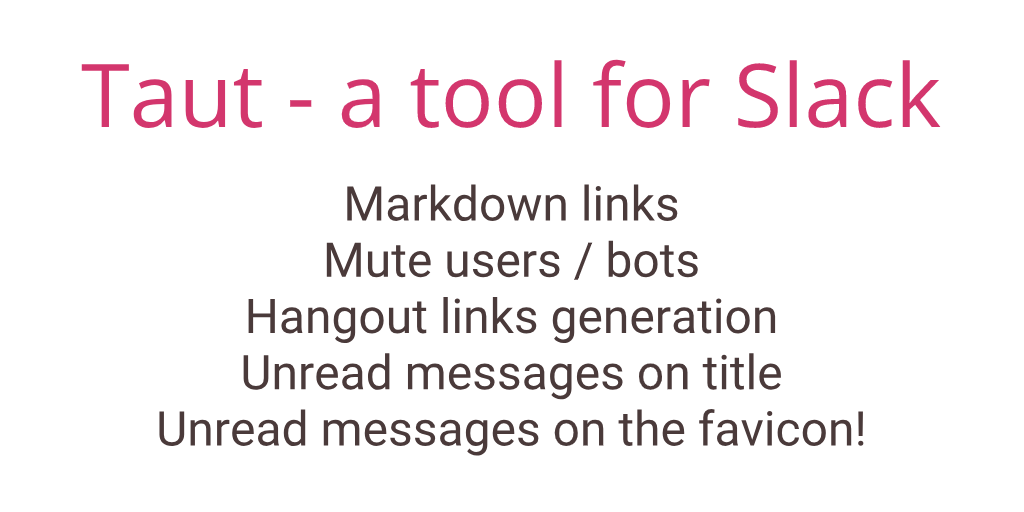
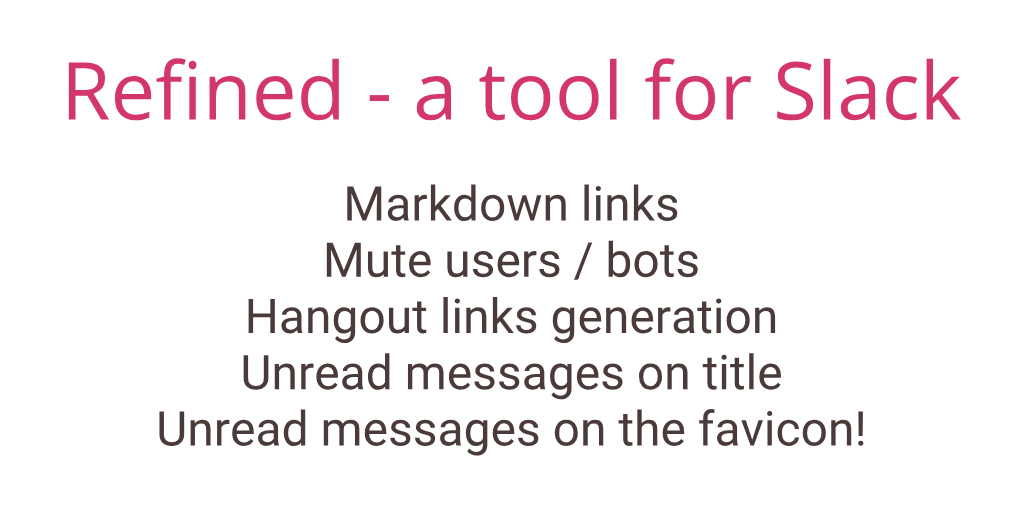
Rename everything!

Changed region(s): [[0.4062, 0.0938, 0.9375, 0.25], [0.0625, 0.0938, 0.375, 0.25]]

diff --git a/index.html b/index.html
@@ -1,19 +1,19 @@
 ---
 layout: default
-title: Taut - a tool for Slack
-description: Taut is a small extension to personalize Slack on your browser.
+title: Refined - a tool for Slack
+description: Refined is a small extension to personalize Slack on your browser.
 ---
 
 <p class="stacks-copy">Here's a quick list of all the features. Follow the links for details on what they do :) Originally, I recorded a video showing the extension, but keeping it updated was really challenging.</p>
 
 <section class="stacks-section">
     {% header h2 | Mute users %}
-    <p class="stacks-copy">Do you have some noisy bots you'd like to mute? <a href="/mute-users">Taut lets you do that</a>.</p>
+    <p class="stacks-copy">Do you have some noisy bots you'd like to mute? <a href="/mute-users">Refined lets you do that</a>.</p>
 </section>
 
 <section class="stacks-section">
     {% header h2 | Use markdown links %}
-    <p class="stacks-copy">You can write things like <span class="ff-mono">[Check this amazing extension](https://taut.rocks)</span> and that's going to appear as <a href="https://taut.rocks">Check this amazing extension</a> for you and for everybody on the channel (even if they are not using Taut).
+    <p class="stacks-copy">You can write things like <span class="ff-mono">[Check this amazing extension](https://refined.chat)</span> and that's going to appear as <a href="https://refined.chat">Check this amazing extension</a> for you and for everybody on the channel (even if they are not using Refined).
     Want to see an example? <a href="/markdown-links">Check it out!</a></p>
 </section>
 
@@ -24,7 +24,7 @@ description: Taut is a small extension to personalize Slack on your browser.
 
 <section class="stacks-section">
     {% header h2 | Unread count on the title %}
-    <p class="stacks-copy">Sometimes (well, all the time) I'm on a tab that is not Slack. When that happens all I see is an asterisk on the title when there are some unread messages. Taut can <a href="/unread-count">add a count of unread messages on the page title</a>.</p>
+    <p class="stacks-copy">Sometimes (well, all the time) I'm on a tab that is not Slack. When that happens all I see is an asterisk on the title when there are some unread messages. Refined can <a href="/unread-count">add a count of unread messages on the page title</a>.</p>
 </section>
 
 <section class="stacks-section">
@@ -39,40 +39,40 @@ description: Taut is a small extension to personalize Slack on your browser.
 
 <section class="stacks-section">
     {% header h2 | Avoid opening the app when clicking on a link a Slack %}
-    <p class="stacks-copy">When you click on a link to a Slack message, by default it opens the Slack app (or shows a prompt). Taut lets you remove that... so that whenever you click on a link, it's always opened on the Slack web.</p>
+    <p class="stacks-copy">When you click on a link to a Slack message, by default it opens the Slack app (or shows a prompt). Refined lets you remove that... so that whenever you click on a link, it's always opened on the Slack web.</p>
 </section>
 
 <section class="stacks-section">
     {% header h2 | Disable Google Drive previews %}
-    <p class="stacks-copy">Google Drive previews are great, but they take lots of vertical space. Taut can <a href="/disable-previews">replace these previews with the document url</a>, so that you can click on it if you wish.</p>
+    <p class="stacks-copy">Google Drive previews are great, but they take lots of vertical space. Refined can <a href="/disable-previews">replace these previews with the document url</a>, so that you can click on it if you wish.</p>
 </section>
 
 <section class="stacks-section">
     {% header h2 | Disable url previews %}
-    <p class="stacks-copy">Url previews... the times they provide any useful information for me are extremely rare. That's why Taut can <a href="/disable-previews">totally disable them</a>.</p>
+    <p class="stacks-copy">Url previews... the times they provide any useful information for me are extremely rare. That's why Refined can <a href="/disable-previews">totally disable them</a>.</p>
 </section>
 
 <section class="stacks-section">
     {% header h2 | Hide the status emojis %}
-    <p class="stacks-copy">And last but not least, in order to decrease the noisiness of your workspace, Taut can <a href="/styling-updates#disable-status-emojis">hide everyone's status emojis</a>.</p>
+    <p class="stacks-copy">And last but not least, in order to decrease the noisiness of your workspace, Refined can <a href="/styling-updates#disable-status-emojis">hide everyone's status emojis</a>.</p>
 </section>
 
 <section class="stacks-section">
     {% header h2 | Threads on channel by default %}
-    <p class="stacks-copy">Do you wish replies defaulted to "Send to #channel"? Taut <a href="/reply-to-channel">can do that for you</a>.</p>
+    <p class="stacks-copy">Do you wish replies defaulted to "Send to #channel"? Refined <a href="/reply-to-channel">can do that for you</a>.</p>
 </section>
 
 <section class="stacks-section">
     {% header h2 | Make "send to channel" sticky %}
-    <p class="stacks-copy">Once you send a reply to the channel, by default Slack unticks the checkbox for your next message. Taut can <a href="/reply-to-channel#make-reply-to-#channel-sticky">keep your last message's selection</a> if you want it to.</p>
+    <p class="stacks-copy">Once you send a reply to the channel, by default Slack unticks the checkbox for your next message. Refined can <a href="/reply-to-channel#make-reply-to-#channel-sticky">keep your last message's selection</a> if you want it to.</p>
 </section>
 
 <section class="stacks-section">
     {% header h2 | Move the sidebar to the right %}
-    <p class="stacks-copy">Taut can also <a href="/move-sidebar">move the sidebar to the right</a>.</p>
+    <p class="stacks-copy">Refined can also <a href="/move-sidebar">move the sidebar to the right</a>.</p>
 </section>
 
 <section class="stacks-section">
     {% header h2 | Show details when switching channels %}
-    <p class="stacks-copy">Would you like to see the channel context when switching to it? Taut can also <a href="/show-channel-details">do that for you</a>!</p>
+    <p class="stacks-copy">Would you like to see the channel context when switching to it? Refined can also <a href="/show-channel-details">do that for you</a>!</p>
 </section>

diff --git a/contribute.html b/contribute.html
@@ -4,16 +4,16 @@ title: Contribute
 description: This is open source and MIT licensed. Contributions are welcome!
 ---
 
-<p class="stacks-copy">Contributions can take any shape or form, but they must adhere to the project's <a href="https://github.com/g3rv4/Taut/blob/master/CODE_OF_CONDUCT.md">code of conduct</a>. If that looks good to you, feel free to open issues, send PRs (although an issue before a PR could be useful).</p>
+<p class="stacks-copy">Contributions can take any shape or form, but they must adhere to the project's <a href="https://github.com/g3rv4/Refined/blob/master/CODE_OF_CONDUCT.md">code of conduct</a>. If that looks good to you, feel free to open issues, send PRs (although an issue before a PR could be useful).</p>
 
 <section class="stacks-section">
     {% header h2 | Contributing to this site %}
-    <p class="stacks-copy">If you find a typo or something that doesn't make sense here, feel free to send a PR to <a href="https://github.com/g3rv4/taut.rocks">this site's repository</a>.</p>
+    <p class="stacks-copy">If you find a typo or something that doesn't make sense here, feel free to send a PR to <a href="https://github.com/g3rv4/refined.chat">this site's repository</a>.</p>
 </section>
 
 <section class="stacks-section">
     {% header h2 | Contributing to the extension %}
-    <p class="stacks-copy">PRs and issues are welcome on <a href="https://github.com/g3rv4/Taut">the project's repository</a>.</p>
+    <p class="stacks-copy">PRs and issues are welcome on <a href="https://github.com/g3rv4/Refined">the project's repository</a>.</p>
 
     {% header h3 | Understanding the plugins structure %}
     <p class="stacks-copy">If you want to contribute with the extension, keep in mind it's plugin-based. All the features are plugins so that they can easily be disabled by the user. If a feature breaks (because Slack changed something on their end) a user should be able to disable that feature in particular and that should solve the issue.</p>

diff --git a/bugs.html b/bugs.html
@@ -4,7 +4,7 @@ title: Bugs
 description: Did you find a bug? I'm so sorry.
 ---
 
-<p class="stacks-copy">Unfortunately, as Taut is highly coupled with Slack's current implementation... if they update certain things of their app, Taut will break. Also, Taut may break Slack for you.<p>
+<p class="stacks-copy">Unfortunately, as Refined is highly coupled with Slack's current implementation... if they update certain things of their app, Refined will break. Also, Refined may break Slack for you.<p>
 
 <section class="stacks-section">
     {% header h2 | You're breaking my Slack! what can I do? %}
@@ -16,9 +16,9 @@ description: Did you find a bug? I'm so sorry.
 
 <section class="stacks-section">
     {% header h2 | Contact me %}
-    <p class="stacks-copy">Feel free to contact me with any bugs / comments / suggestions regarding Taut. You can do so using any of the following methods:</p>
+    <p class="stacks-copy">Feel free to contact me with any bugs / comments / suggestions regarding Refined. You can do so using any of the following methods:</p>
     <ul class="stacks-copy">
-        <li><a href="https://github.com/g3rv4/taut.rocks/issues/new">Create an issue on GitHub</a></li>
+        <li><a href="https://github.com/g3rv4/refined.chat/issues/new">Create an issue on GitHub</a></li>
         <li>Mention me on Mastodon (I'm @g3rv4@mastodon.technology there)</li>
         <li>Mention me on Twitter (I'm @g3rv4 there)</li>
         <li>Email me to gmc@gmc.uy</li>

diff --git a/security.html b/security.html
@@ -10,6 +10,6 @@ description: I'm glad you asked.
 
 <section class="stacks-section">
     {% header h2 | Installing extensions is insecure %}
-    <p class="stacks-copy">When you install extensions that modify sites you use (like Taut) they can steal your data and break the site you're using. What's worse is that even if you inspect their code, authors can update them without your knowledge. I actually <a href="https://g3rv4.com/2018/09/browser-extensions-are-insecure">wrote an article about it</a> with suggestions as to what you should do if you really want to run this in a secure way.</p>
+    <p class="stacks-copy">When you install extensions that modify sites you use (like Refined) they can steal your data and break the site you're using. What's worse is that even if you inspect their code, authors can update them without your knowledge. I actually <a href="https://g3rv4.com/2018/09/browser-extensions-are-insecure">wrote an article about it</a> with suggestions as to what you should do if you really want to run this in a secure way.</p>
     <p class="stacks-copy">Now, if you decide to trust me... there's one more thing: this extension can break Slack for you. I go into some ideas to troubleshoot (and how to report bugs) in <a href="/bugs">the bugs page</a>.</p>
 </section>

diff --git a/_includes/head.html b/_includes/head.html
@@ -1,10 +1,10 @@
 <head>
-  <title>{% if page.url != '/' %}{{ page.title }} | taut.rocks {% else %}taut.rocks - a tool for Slack{% endif %}</title>
+  <title>{% if page.url != '/' %}{{ page.title }} | refined.chat {% else %}Refined - a tool for Slack{% endif %}</title>
   <link rel="stylesheet" type="text/css" href="/assets/css/stacks-documentation.css" />
   <meta charset="utf-8" />
   <meta name="viewport" content="width=device-width, initial-scale=1">
 
-  <meta property="og:title" content="{% if page.url != '/' %}{{ page.title }} | Taut{% else %}Taut - a tool for Slack{% endif %}" />
+  <meta property="og:title" content="{% if page.url != '/' %}{{ page.title }} | Refined{% else %}Refined - a tool for Slack{% endif %}" />
   <meta property="og:type" content="article" />
   <meta property="og:url" content="{{ page.url | replace:'index.html','' | prepend: site.url }}" />
   <meta property="og:image" content="{{ site.url }}{{ site.baseurl }}assets/images/card.png" />

diff --git a/_includes/header.html b/_includes/header.html
@@ -12,7 +12,7 @@
                 </svg>
         </a>
 
-        <a class="grid--cell fc-black-200 ml-auto sm:d-none" title="Stacks on GitHub" href="https://github.com/g3rv4/Taut" target="_blank">
+        <a class="grid--cell fc-black-200 ml-auto sm:d-none" title="Stacks on GitHub" href="https://github.com/g3rv4/Refined" target="_blank">
             <svg aria-hidden="true" class="svg-icon iconGitHub" width="24" height="24" viewBox="0 0 18 18"><path d="M9 1a8 8 0 0 0-2.53 15.59c.4.07.55-.17.55-.38l-.01-1.49c-2.01.37-2.53-.49-2.69-.94-.09-.23-.48-.94-.82-1.13-.28-.15-.68-.52-.01-.53.63-.01 1.08.58 1.23.82.72 1.21 1.87.87 2.33.66.07-.52.28-.87.51-1.07-1.78-.2-3.64-.89-3.64-3.95 0-.87.31-1.59.82-2.15-.08-.2-.36-1.02.08-2.12 0 0 .67-.21 2.2.82a7.42 7.42 0 0 1 4 0c1.53-1.04 2.2-.82 2.2-.82.44 1.1.16 1.92.08 2.12.51.56.82 1.27.82 2.15 0 3.07-1.87 3.75-3.65 3.95.29.25.54.73.54 1.48l-.01 2.2c0 .21.15.46.55.38A8.01 8.01 0 0 0 9 1z"></path></svg>
         </a>
     </div>

diff --git a/unread-count-favicon.html b/unread-count-favicon.html
@@ -12,7 +12,7 @@ description: Add the count of unread messages to the favicon.
 
 <section class="stacks-section">
     {% header h2 | How does it look? %}
-    <p class="stacks-copy">Here's a gif... keep an eye on the pinned tab. I don't looove how it looks, so if you know how to play with canvas and make it nice, I'd love your help! <a href="https://github.com/g3rv4/Taut/blob/5e53bde13876b1a066d99c139e2f017f9deffd13/src/plugins/unreadOnFavicon.ts#L66-L77">here you can see how I'm building it</a>.
+    <p class="stacks-copy">Here's a gif... keep an eye on the pinned tab. I don't looove how it looks, so if you know how to play with canvas and make it nice, I'd love your help! <a href="https://github.com/g3rv4/Refined/blob/5e53bde13876b1a066d99c139e2f017f9deffd13/src/plugins/unreadOnFavicon.ts#L66-L77">here you can see how I'm building it</a>.
         <img src="/assets/images/unread-favicon.gif" />
     </p>
 </section>

diff --git a/_includes/navigation.html b/_includes/navigation.html
@@ -30,7 +30,7 @@
         <div class="fc-black-500 fs-fine ta-center">
             site design stolen from <a href="https://stackoverflow.design" target="_blank">Stacks</a><br />
             built with <span class="ff-mono fc-red-500">&lt;3</span> by <a href="https://g3rv4.com" target="_blank">g3rv4</a><br />
-            version <a href="https://github.com/g3rv4/taut.rocks/commits/master" target="_blank">{{site.data.version | slice: 0, 7}}</a>
+            version <a href="https://github.com/g3rv4/refined.chat/commits/master" target="_blank">{{site.data.version | slice: 0, 7}}</a>
         </div>
     </div>
 </div>

diff --git a/README.md b/README.md
@@ -1,8 +1,8 @@
-# taut.rocks :unicorn:
+# refined.chat :unicorn:
 
-This is the code powering the site [taut.rocks](https://taut.rocks).
+This is the code powering the site [refined.chat](https://refined.chat).
 
 You may be interested in:
 
-* [Visiting the site](https://taut.rocks) to learn more about the extension (and download it)
-* Checking out the [extension's source code](https://github.com/g3rv4/Taut)
+* [Visiting the site](https://refined.chat) to learn more about the extension (and download it)
+* Checking out the [extension's source code](https://github.com/g3rv4/Refined)
